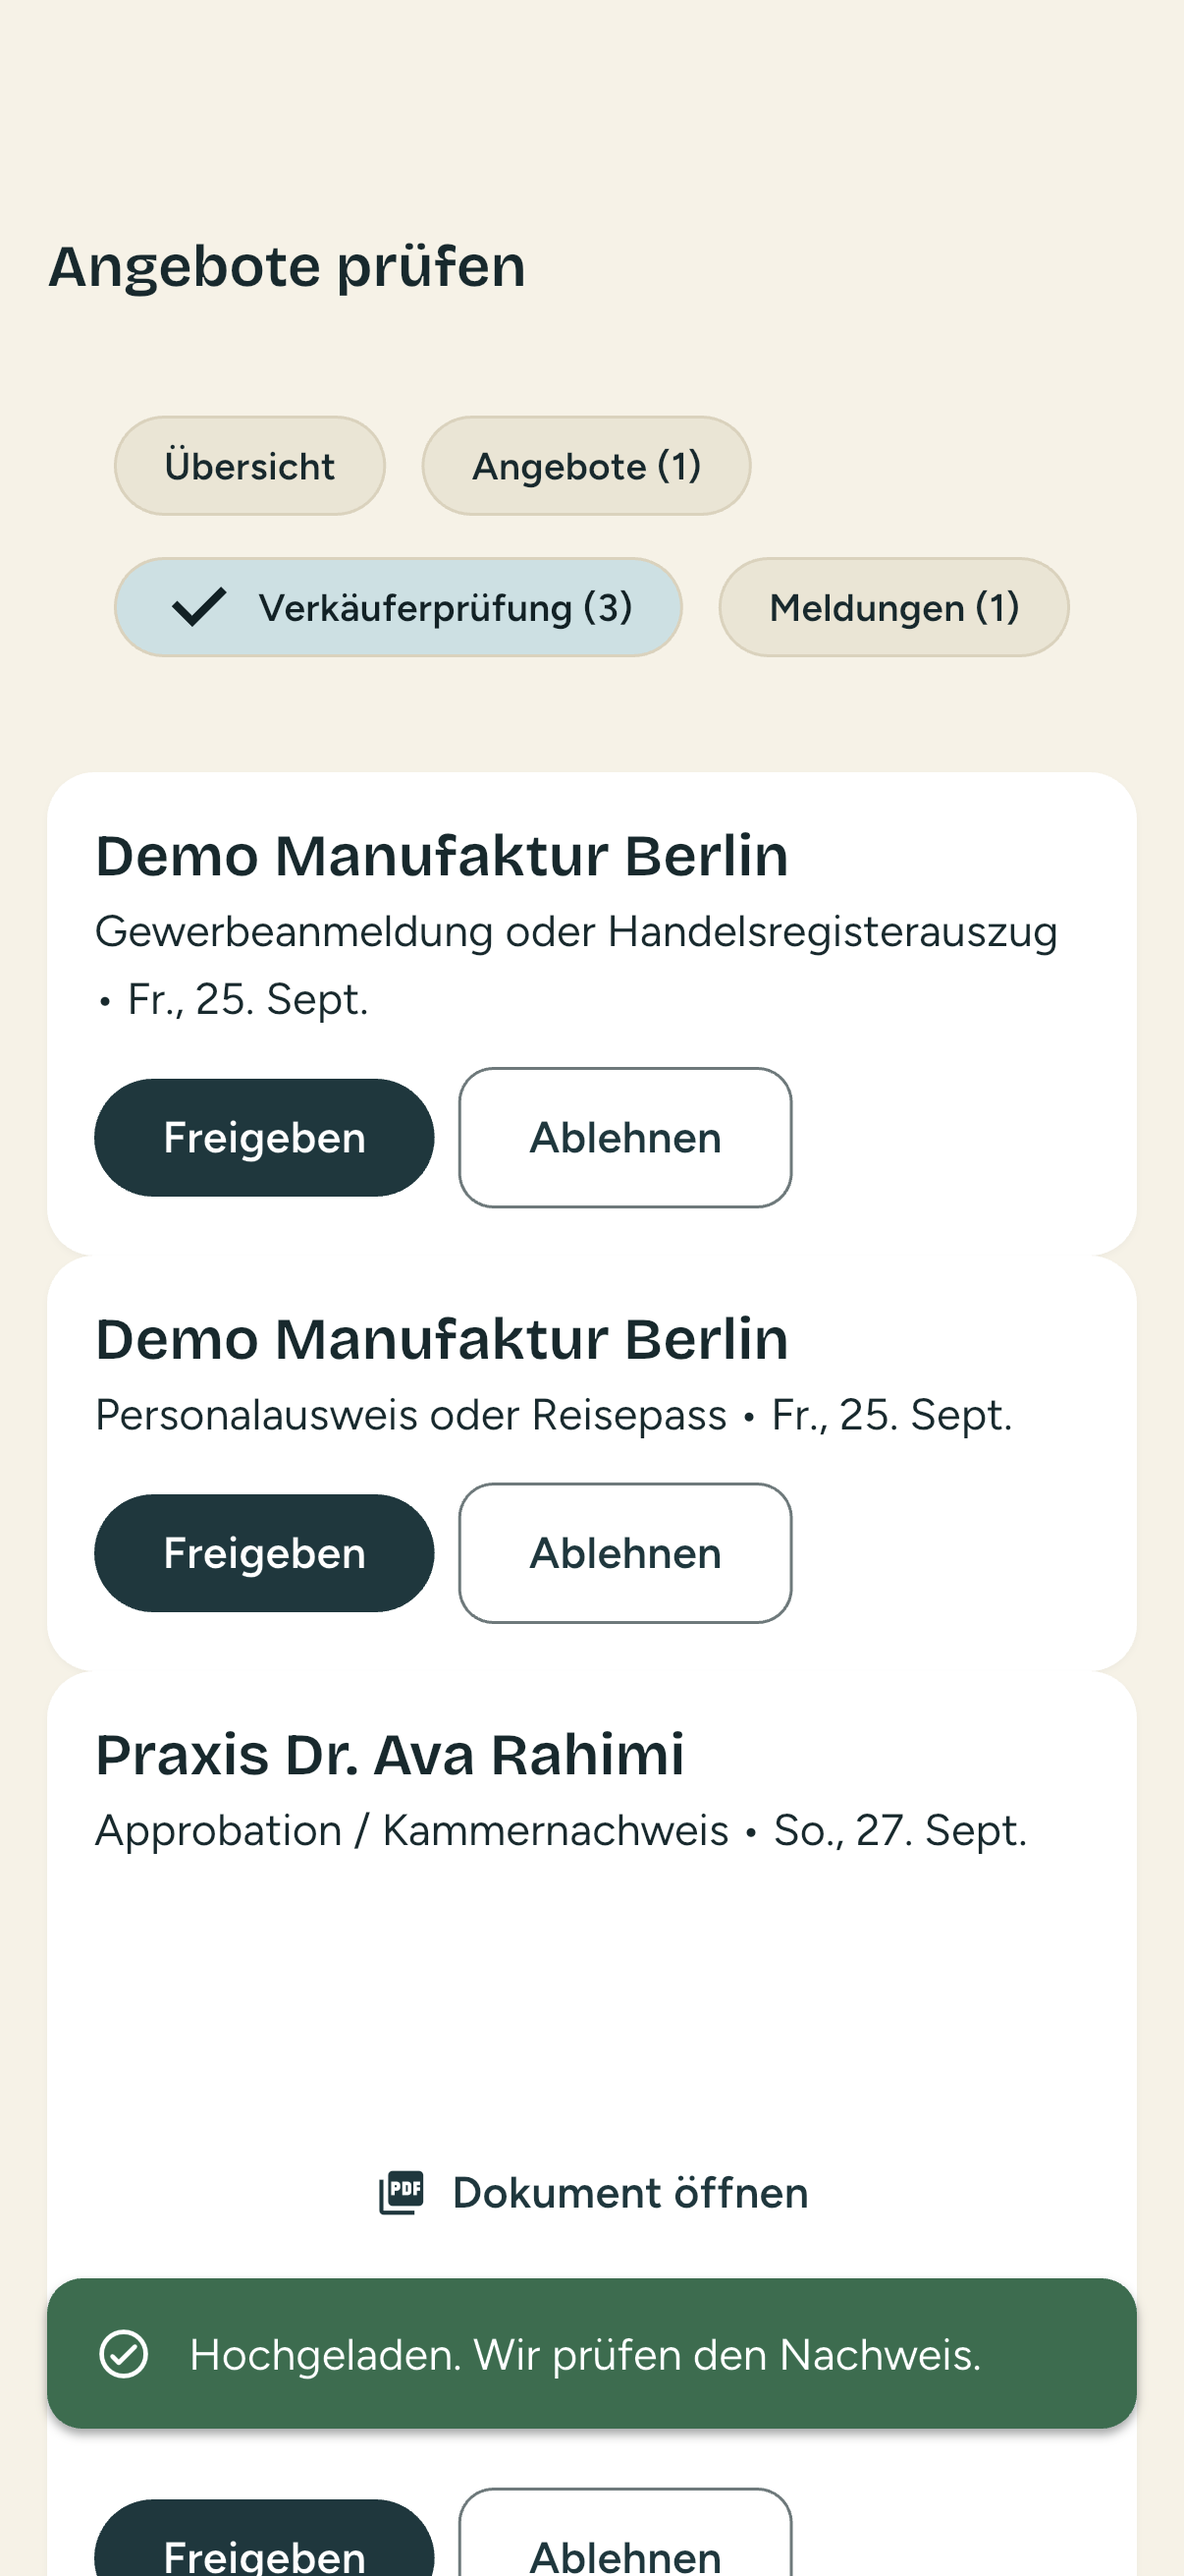
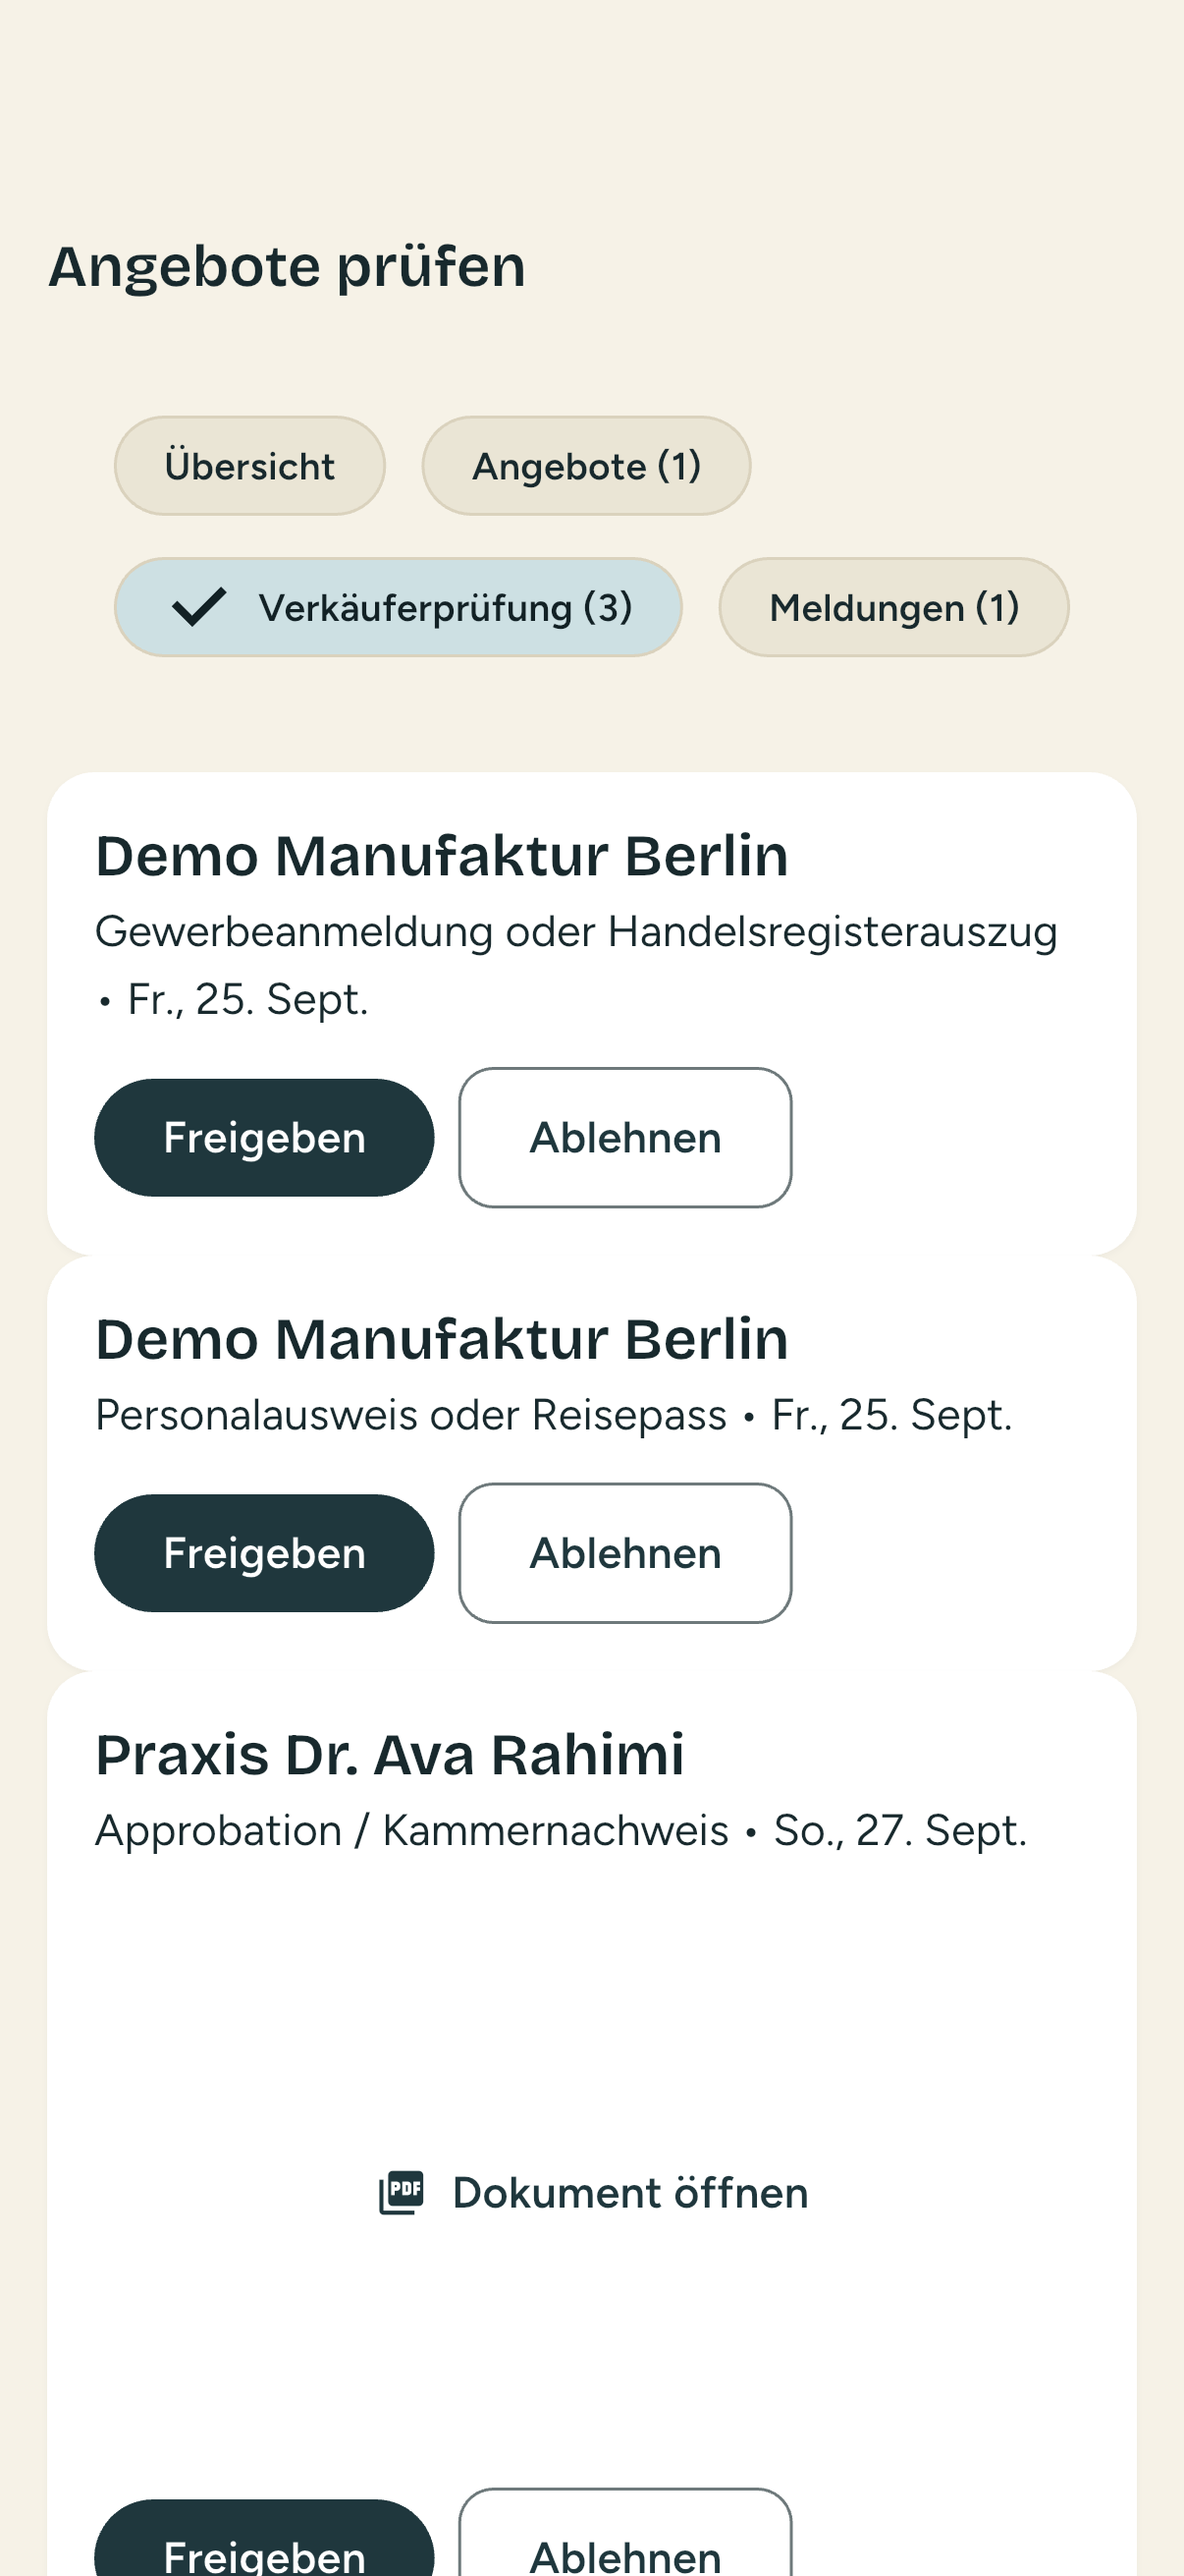
fix: location gap migration (dry-run), Step B harness repairs, E2 evidence refresh
- 000800: leaving 'approved' clears the public pin instead of raising;
  profile create/delete/type change runs the unverified wipe. Acceptance
  test incl. suspending Atelier Lale. Dry-run only, not applied.
- Step B harness: scroll the lazily built details list, open the listings
  tab in the moderation hub, remove photos before deleting the listing.
- E2 harness re-run after the approved orphan cleanup: 9/9 PASS, its upload
  removed, hours screenshot refreshed.

Changed region(s): [[0.0307, 0.865, 0.9818, 0.9577]]

diff --git a/integration_test/step_b_live_test.dart b/integration_test/step_b_live_test.dart
@@ -115,16 +115,19 @@ void main() {
           for (final image in row['images']! as List)
             (image as Map)['storage_path']! as String,
       ];
+      // Photos first: product-images objects are only visible (and therefore
+      // removable) while their listing row exists, even for admins.
+      final removed = await removeUploadedObjects(
+        client,
+        bucket: _imagesBucket,
+        paths: paths,
+      );
       if (ids.isNotEmpty) {
         await client.from('products').delete().inFilter('id', ids);
       }
       cleanup = <String, Object?>{
         'deleted_listings': ids.length,
-        'removed_objects': await removeUploadedObjects(
-          client,
-          bucket: _imagesBucket,
-          paths: paths,
-        ),
+        'removed_objects': removed,
       };
     }
     binding.reportData ??= <String, dynamic>{};
@@ -233,8 +236,18 @@ void main() {
     await tester.pumpAndSettle();
     await screenshot(tester, 'free_form_details');
 
+    // The details list is built lazily and has grown since Step B (compare-at
+    // price), so scroll the button into existence instead of assuming it is built.
     final detailsNext = find.byKey(const ValueKey('sell-details-next'));
-    await tester.ensureVisible(detailsNext);
+    final detailsList = find.descendant(
+      of: find.byKey(const ValueKey('sell-details-step')),
+      matching: find.byType(Scrollable),
+    );
+    await tester.scrollUntilVisible(
+      detailsNext,
+      300,
+      scrollable: detailsList.first,
+    );
     await tester.drag(
       find.byKey(const ValueKey('sell-details-step')),
       const Offset(0, -220),
@@ -317,7 +330,22 @@ void main() {
       'Server-admin moderation queue contains pending listing',
     );
     await screenshot(tester, 'moderation_queue');
+    // Since the admin expansion, /moderation opens on the overview tab; the
+    // approve action lives on the listings tab.
+    await tester.tap(
+      find
+          .descendant(
+            of: find.byType(ModerationScreen),
+            matching: find.byType(ChoiceChip),
+          )
+          .at(1),
+    );
     final approve = find.byKey(ValueKey('moderation-approve-$productId'));
+    await until(
+      tester,
+      () => approve.evaluate().isNotEmpty,
+      'Listings tab shows the pending listing with its approve action',
+    );
     final moderationScroll = find
         .descendant(
           of: find.byType(ModerationScreen),

diff --git a/docs/STATUS.md b/docs/STATUS.md
@@ -61,6 +61,30 @@ operational implementation. Out-of-scope historical SQL is not counted as produc
 - 🟡 The hours screenshot shows a truncated overnight label; fixed in code afterwards with a
   widget test, screenshot not refreshed (needs another approved harness run).
 
+## Loose ends before Step F (2026-09-27)
+
+- ✅ Snackbars: `ZerinApp` owns the app-wide `ScaffoldMessenger` and clears it whenever
+  the signed-in account changes (sign-in, sign-out, switch); widget test
+  `test/app/app_snackbar_reset_test.dart` (mutation-checked). Confirmed live: the refreshed
+  admin-queue screenshot no longer shows the doctor's snackbar.
+- ✅ E2 orphans: the 3 approved items were deleted (pending row first, then the 3 PDFs via
+  the storage service); the doctor's folder is empty and back to the seeded state.
+- ✅ Harness cleanup (`integration_test/support/harness_cleanup.dart`), pass or fail:
+  E2 removes what it uploaded — re-run 9/9 PASS, 1 upload removed, 0 files left, hours
+  screenshot refreshed. The E2 seed refuses to orphan uploaded files.
+- 🟡 Step B: the harness itself was out of date (the details list is lazily built since the
+  compare-at field; `/moderation` opens on the overview tab since the admin expansion) —
+  both fixed. Its first cleanup version deleted the listing before the photo; because
+  `product_images_storage_select` only shows a photo while its listing exists (admins
+  included), the photo could no longer be removed. Order fixed (photos first). One photo
+  is left behind: `8bfc114f-0b44-45dc-9a1f-0e767eb8575d/2ace6666-b043-45b0-b90f-ea9fb8b35c0d/1790545861569718-0.webp`
+  (no listing, no image row; only the service role can remove it). Same pattern affects
+  owners: deleting a listing leaves its photos in storage. Awaiting approval.
+- 🟡 `20260927000800_precise_location_gaps.sql` + `supabase/tests/precise_location_gaps.sql`:
+  suspending/rejecting clears the public pin in the same write; profile create/delete/type
+  change runs the unverified wipe. Dry-run passes with all suites, 0 rows changed
+  (`docs/evidence/location-gaps/`). **Not applied yet** — awaiting approval.
+
 ## Step F — account switching (decided, not started)
 
 - Decision 2026-09-27: option D. One login, up to one private and one business seller per

diff --git a/docs/plans/zerin-business-directory.md b/docs/plans/zerin-business-directory.md
@@ -157,7 +157,7 @@ SQL tests still pass, `flutter analyze` + `flutter test` still green. Stop and r
     - Reads re-check verification: the map (`listings_within_radius`) and directory
       search/detail call `is_verified_seller()` at read time.
     - Step D principle: coordinates are server-owned, never device-geocoded.
-  - *Gaps found (not changed in E2):*
+  - *Gaps found (fixed by `20260927000800_precise_location_gaps.sql`, pending approval):*
     1. Since E1, verification also depends on the directory profile type (doctor vs
        other), but a type change does not run the wipe, so stale precise coordinates can
        stay stored. They are never shown, because reads re-check. E3 adds the same wipe
